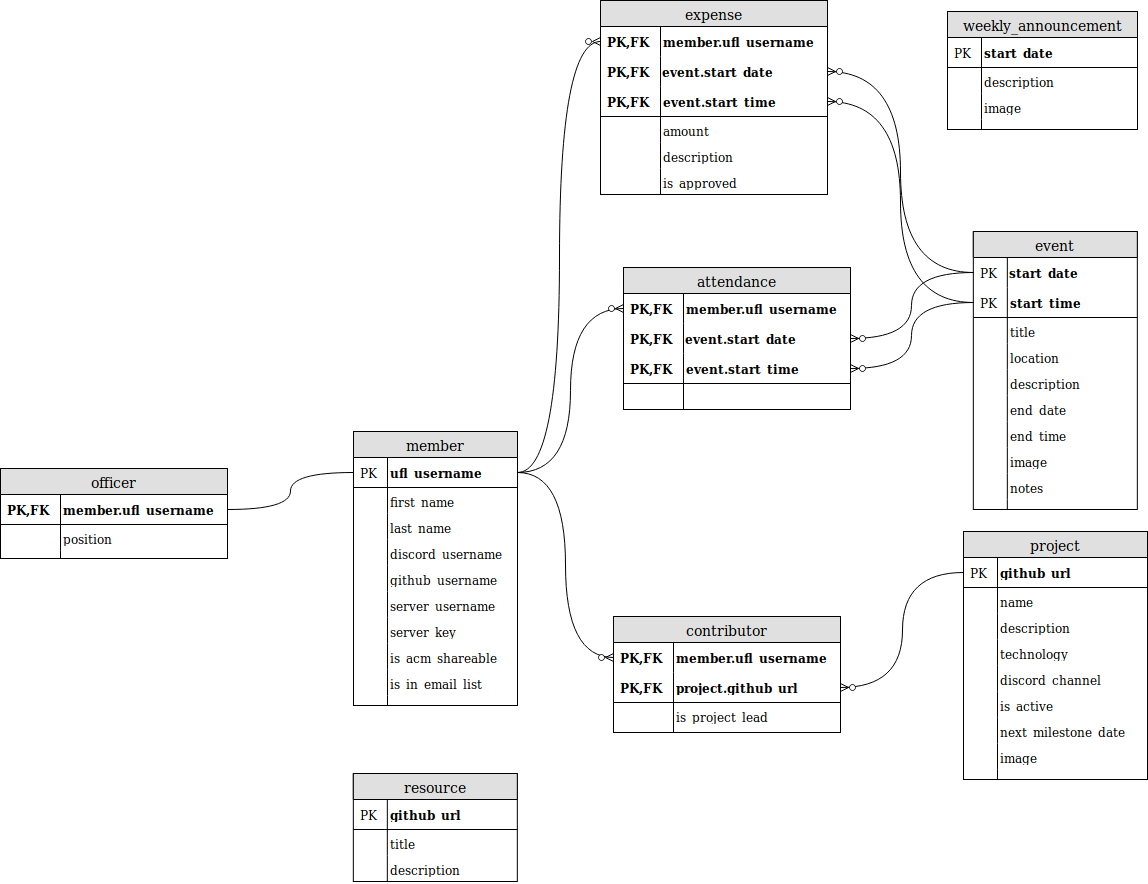
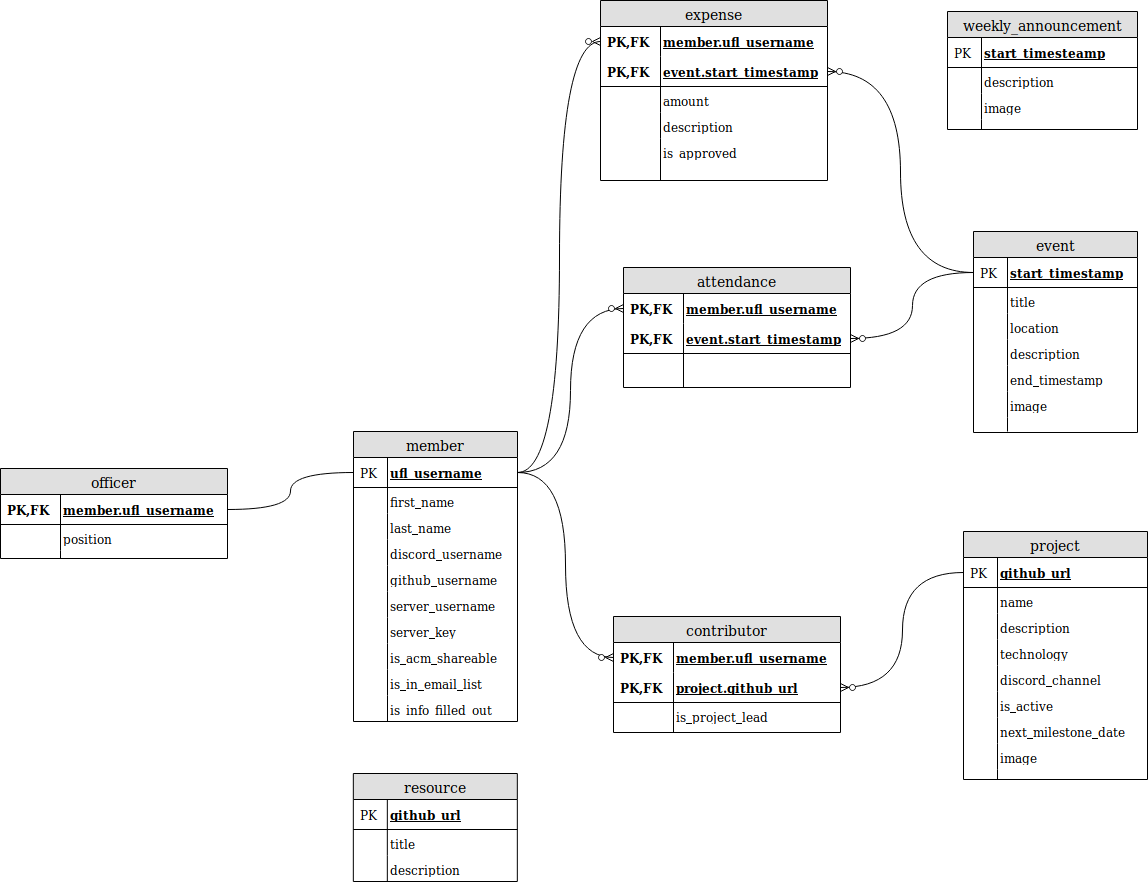
Basic database (#19)
# Fixes

This adds a lot of basic database interactions and provides examples with the members type

## Related Issues

- #4 
- #5 
- #6

diff --git a/src/member.rs b/src/member.rs
@@ -1,0 +1,137 @@
+use diesel::prelude::*;
+
+use super::database;
+use super::schema::member;
+
+/* Struct Setup */
+
+// Struct for interacting with the member table
+#[derive(Insertable, Queryable)]
+#[table_name = "member"]
+pub struct Member {
+	pub ufl_username: String,
+	pub is_info_filled_out: bool,
+	pub first_name: String,
+	pub last_name: String,
+	pub discord_username: String,
+	pub github_username: String,
+	pub server_username: String,
+	pub server_key: String,
+	pub is_acm_shareable: bool,
+	pub is_in_email_list: bool,
+}
+
+// Support creating new members that supply just a UFL username
+impl Member {
+	fn new(ufl_username: &str) -> Self {
+		Member {
+			ufl_username: ufl_username.to_string(),
+			..Default::default()
+		}
+	}
+}
+
+// Set default values for Member
+// Note: the UFL username should never be not set (Rust requires all values to have a default)
+impl Default for Member {
+	fn default() -> Member {
+		Member {
+			ufl_username: "".to_string(),
+			is_info_filled_out: false,
+			first_name: "".to_string(),
+			last_name: "".to_string(),
+			github_username: "".to_string(),
+			discord_username: "".to_string(),
+			server_username: "".to_string(),
+			server_key: "".to_string(),
+			is_acm_shareable: false,
+			is_in_email_list: false,
+		}
+	}
+}
+
+/* CRUD and other functions */
+
+// Return all members
+pub fn list_members() -> Vec<Member> {
+	let connection = database::establish_connection();
+	let results = member::table
+		.load::<Member>(&connection)
+		.expect("Error loading members");
+	results
+}
+
+// Add a member with a UFL username
+pub fn add_member(ufl_username: &str) {
+	let connection = database::establish_connection();
+
+	let new_member = Member::new(&ufl_username);
+
+	diesel::insert_into(member::table)
+		.values(&new_member)
+		.get_result::<Member>(&connection)
+		.expect("Error saving new member");
+}
+
+// Remove a member by their username
+pub fn remove_member(ufl_username: &str) {
+	let connection = database::establish_connection();
+
+	let num_deleted =
+		diesel::delete(member::table.filter(member::columns::ufl_username.eq(ufl_username))) //.like(ufl_username)))
+			.execute(&connection)
+			.expect("Error deleting members");
+
+	println!("Deleted {} members", num_deleted);
+}
+
+/* Unit testing */
+
+// Note: Do run the test as `cargo test -- --test-threads=1` to run the database calls in order
+#[cfg(test)]
+mod tests {
+	use super::*;
+
+	// Utility function to clear out the whole member table
+	fn clear_table() {
+		let connection = database::establish_connection();
+
+		diesel::delete(member::table)
+			.execute(&connection)
+			.expect("Error deleting all members");
+	}
+
+	// Check to make sure no members exist by default
+	#[test]
+	fn no_members() {
+		clear_table();
+		assert_eq!(Vec::len(&list_members()), 0);
+	}
+
+	// Check that one member exists after they are created
+	#[test]
+	fn one_member() {
+		clear_table();
+		add_member("one_member_test@email.com");
+		assert_eq!(Vec::len(&list_members()), 1);
+	}
+
+	// Check that two members exist agter they are both created
+	#[test]
+	fn two_member() {
+		clear_table();
+		add_member("two_member_test_one@email.com");
+		add_member("two_member_test_two@email.com");
+		assert_eq!(Vec::len(&list_members()), 2);
+	}
+
+	// Checl that a single member can be deleted after being created
+	#[test]
+	fn delete_member() {
+		clear_table();
+		add_member("delete_member_test@email.com");
+		remove_member("delete_member_test@email.com");
+		assert_eq!(Vec::len(&list_members()), 0);
+	}
+
+}

diff --git a/src/main.rs b/src/main.rs
@@ -1,31 +1,34 @@
 #![feature(proc_macro_hygiene, decl_macro)]
+// Temporarily silence warnings caused by Diesel (https://github.com/diesel-rs/diesel/issues/1785)
+#![allow(proc_macro_derive_resolution_fallback)]
 
 #[macro_use]
 extern crate rocket;
 #[macro_use]
 extern crate rocket_contrib;
+#[macro_use]
+extern crate diesel;
 
-use diesel::pg::PgConnection;
-use diesel::prelude::*;
-use rocket_contrib::databases::diesel;
-use std::env;
+// Utility local dependencies
+mod database;
+mod schema;
 
-#[database("club_data")]
-struct ClubDbConn(diesel::PgConnection);
+// Table specifc local dependencies
+mod attendance;
+mod event;
+mod member;
 
-pub fn establish_connection() -> PgConnection {
-	let database_url = env::var("DATABASE_URL").expect("DATABASE_URL must be set");
-	PgConnection::establish(&database_url).expect(&format!("Error connecting to {}", database_url))
-}
-
+// Check to see if the server is working
 #[get("/")]
 fn index() -> &'static str {
 	"Hello, world!"
 }
 
+// Launch the REST server with the database connection
 fn main() {
 	rocket::ignite()
-		.attach(ClubDbConn::fairing())
+		.attach(database::ClubDbConn::fairing())
+		// Note: Be sure to mount all the routes from differnt modules
 		.mount("/", routes![index])
 		.launch();
 }

diff --git a/src/schema.rs b/src/schema.rs
@@ -1,0 +1,37 @@
+table! {
+	attendance (ufl_username, start_timestamp) {
+		ufl_username -> Text,
+		start_timestamp -> Timestamptz,
+	}
+}
+
+table! {
+	event (start_timestamp) {
+		start_timestamp -> Timestamptz,
+		title -> Text,
+		location -> Text,
+		description -> Text,
+		end_timestamp -> Timestamptz,
+		image -> Bytea,
+	}
+}
+
+table! {
+	member (ufl_username) {
+		ufl_username -> Text,
+		is_info_filled_out -> Bool,
+		first_name -> Text,
+		last_name -> Text,
+		discord_username -> Text,
+		github_username -> Text,
+		server_username -> Text,
+		server_key -> Text,
+		is_acm_shareable -> Bool,
+		is_in_email_list -> Bool,
+	}
+}
+
+joinable!(attendance -> event (start_timestamp));
+joinable!(attendance -> member (ufl_username));
+
+allow_tables_to_appear_in_same_query!(attendance, event, member,);

diff --git a/src/database.rs b/src/database.rs
@@ -1,0 +1,15 @@
+extern crate diesel;
+
+use diesel::pg::PgConnection;
+use diesel::prelude::*;
+use std::env;
+
+// club_data data is defined in Rocket.toml
+#[database("club_data")]
+pub struct ClubDbConn(diesel::PgConnection);
+
+// Create connection for other functions to use
+pub fn establish_connection() -> PgConnection {
+	let database_url = env::var("DATABASE_URL").expect("DATABASE_URL must be set");
+	PgConnection::establish(&database_url).expect(&format!("Error connecting to {}", database_url))
+}

diff --git a/src/event.rs b/src/event.rs
@@ -1,0 +1,16 @@
+use diesel::prelude::*;
+use diesel::sql_types::Bytea;
+use diesel::sql_types::Timestamptz;
+
+use super::database;
+use super::schema::event;
+
+#[derive(Queryable)]
+pub struct Event {
+	pub start_timestamp: Timestamptz,
+	pub title: String,
+	pub location: String,
+	pub description: String,
+	pub end_timestamp: Timestamptz,
+	pub image: Bytea,
+}

diff --git a/src/attendance.rs b/src/attendance.rs
@@ -1,0 +1,11 @@
+use diesel::prelude::*;
+use diesel::sql_types::Timestamptz;
+
+use super::database;
+use super::schema::attendance;
+
+#[derive(Queryable)]
+pub struct Attendance {
+	pub ufl_username: String,
+	pub start_timestamp: Timestamptz,
+}

diff --git a/docs/extra-docker-info.md b/docs/extra-docker-info.md
@@ -41,8 +41,9 @@ docker-compose exec backend bash
 ```
 
 From there all normal Diesel or Rust maintenance commands can be run. Please go to the official documentation for details, a list of commonly used commands are below.
-- `cargo upgrade`
 - `cargo fmt`
+- `cargo test -- --test-threads=1`
+- `cargo upgrade`
 - `cargo clippy`
 - `diesel setup`
 - `diesel migration generate {name}`
